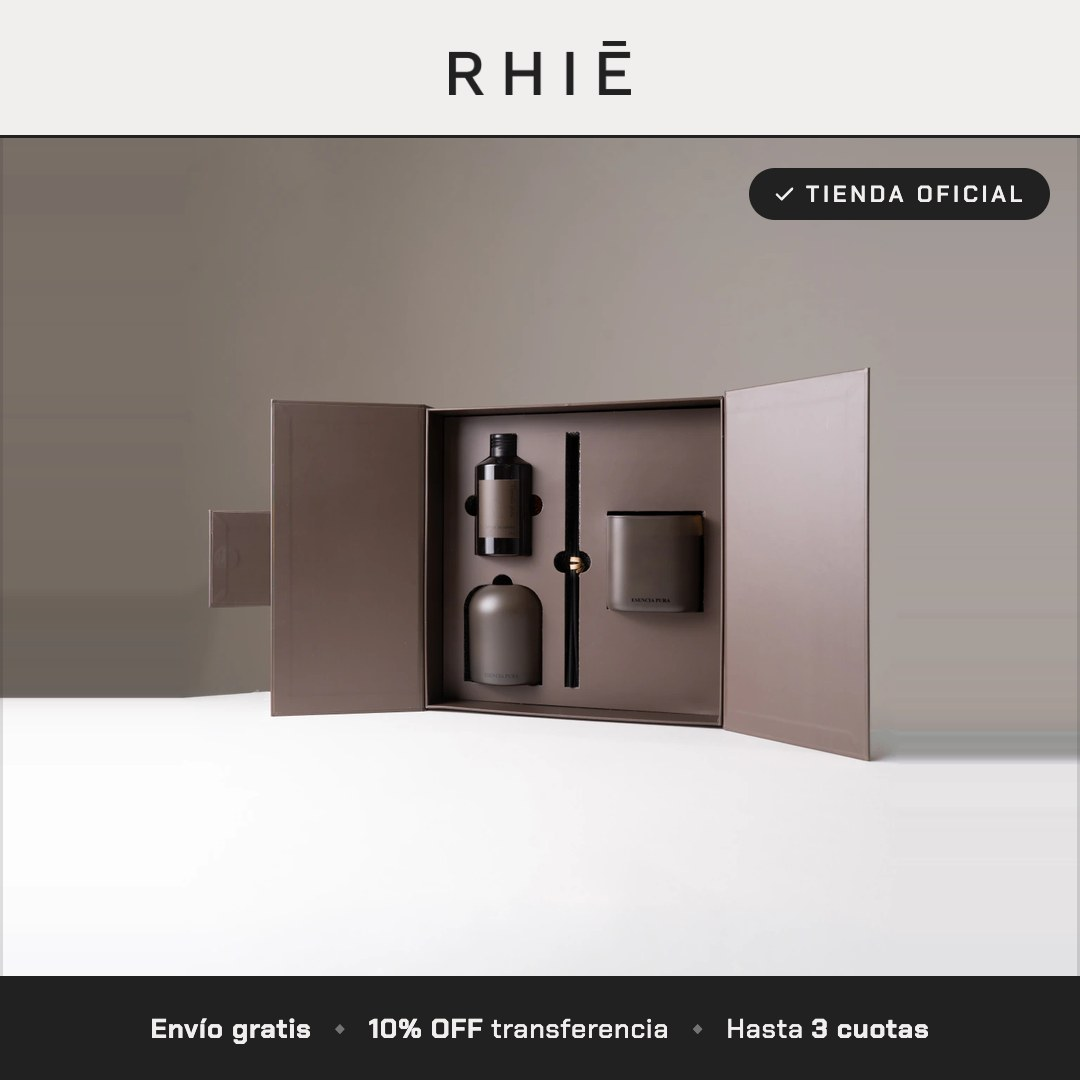
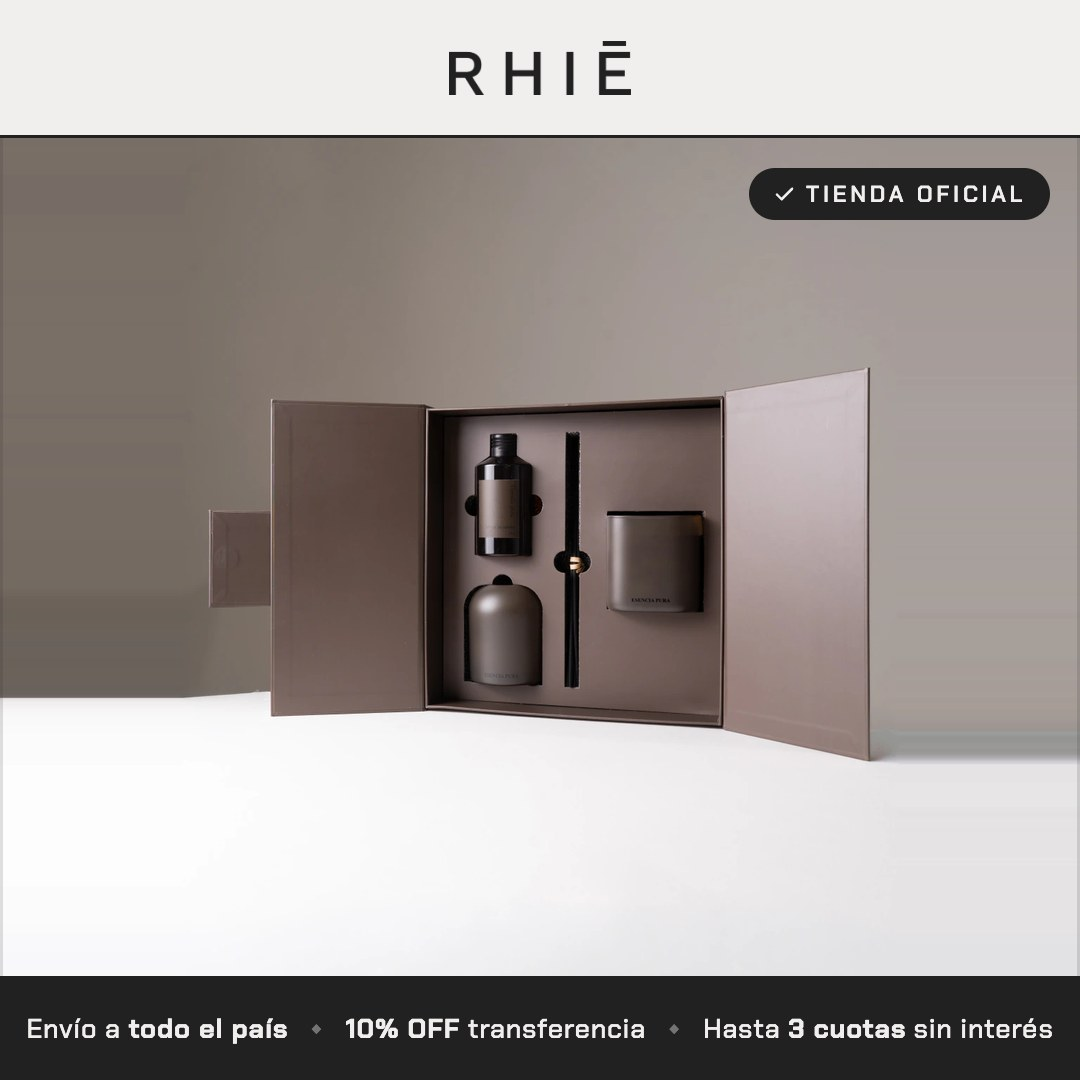
Sacar el claim falso de envío gratis y rehornear el catálogo
El marco decía 'Envío gratis a todo el país'. La tienda no tiene ninguna
regla de envío gratis creada y la etiqueta del HTML sale oculta en los 18
productos. Pasa a 'Envío a todo el país'.

Changed region(s): [[0.0306, 0.9167, 0.9778, 0.9778]]

diff --git a/README.md b/README.md
@@ -48,15 +48,33 @@ color plano sí dejaría una línea visible.
 
 ## Los claims del marco
 
-Los tres están verificados producto por producto el 19/11/2026:
+- **Envío a todo el país** — envían a todo el país, pero **no gratis**.
+- **10% OFF por transferencia** — aparece en el texto de toda ficha.
+- **Hasta 3 cuotas sin interés** — 2 desde $78.000, 3 desde $116.000.
 
-- **Envío gratis** — la etiqueta está en los 18 productos de la tienda.
-- **10% OFF por transferencia** — aparece en toda ficha.
-- **Hasta 3 cuotas sin interés** — 2 desde $78.000, 3 desde $116.000. El
-  "hasta" cubre que no aplica a todo el catálogo.
+### El error de "Envío gratis" (19/11/2026)
+
+La primera versión del marco decía **"Envío gratis a todo el país"**. Las dos
+mitades estaban mal y las dos las puse yo:
+
+- **"a todo el país"** fue invento, no lo verifiqué en ningún lado.
+- **"envío gratis"** salió de contar el texto `Envío gratis` en el HTML de las
+  fichas. Esa detección es falsa: el nodo es
+  `js-free-shipping-minimum-label` (envío gratis **por monto mínimo**) y sale
+  con `style="display:none"` en los **18** productos, incluso en el de
+  $116.000. Además, en Descuentos → Envío gratis del panel de Tiendanube **no
+  hay ninguna regla creada**, está el estado vacío.
+
+**Regla:** para dar por bueno un claim leído del HTML no alcanza con que el
+texto esté. Hay que verificar que el nodo esté visible, y cruzarlo contra la
+configuración del panel.
+
+Lo detectó Álvaro preguntando de dónde lo había sacado. El marco viejo ya
+estaba horneado en las 21 imágenes del catálogo; se rehorneó todo.
 
 Si alguno deja de ser cierto hay que regenerar `marco.png` y borrar `img/` para
 que se hornee todo de nuevo.
+
 
 ## Dos guardas que no hay que sacar
 
